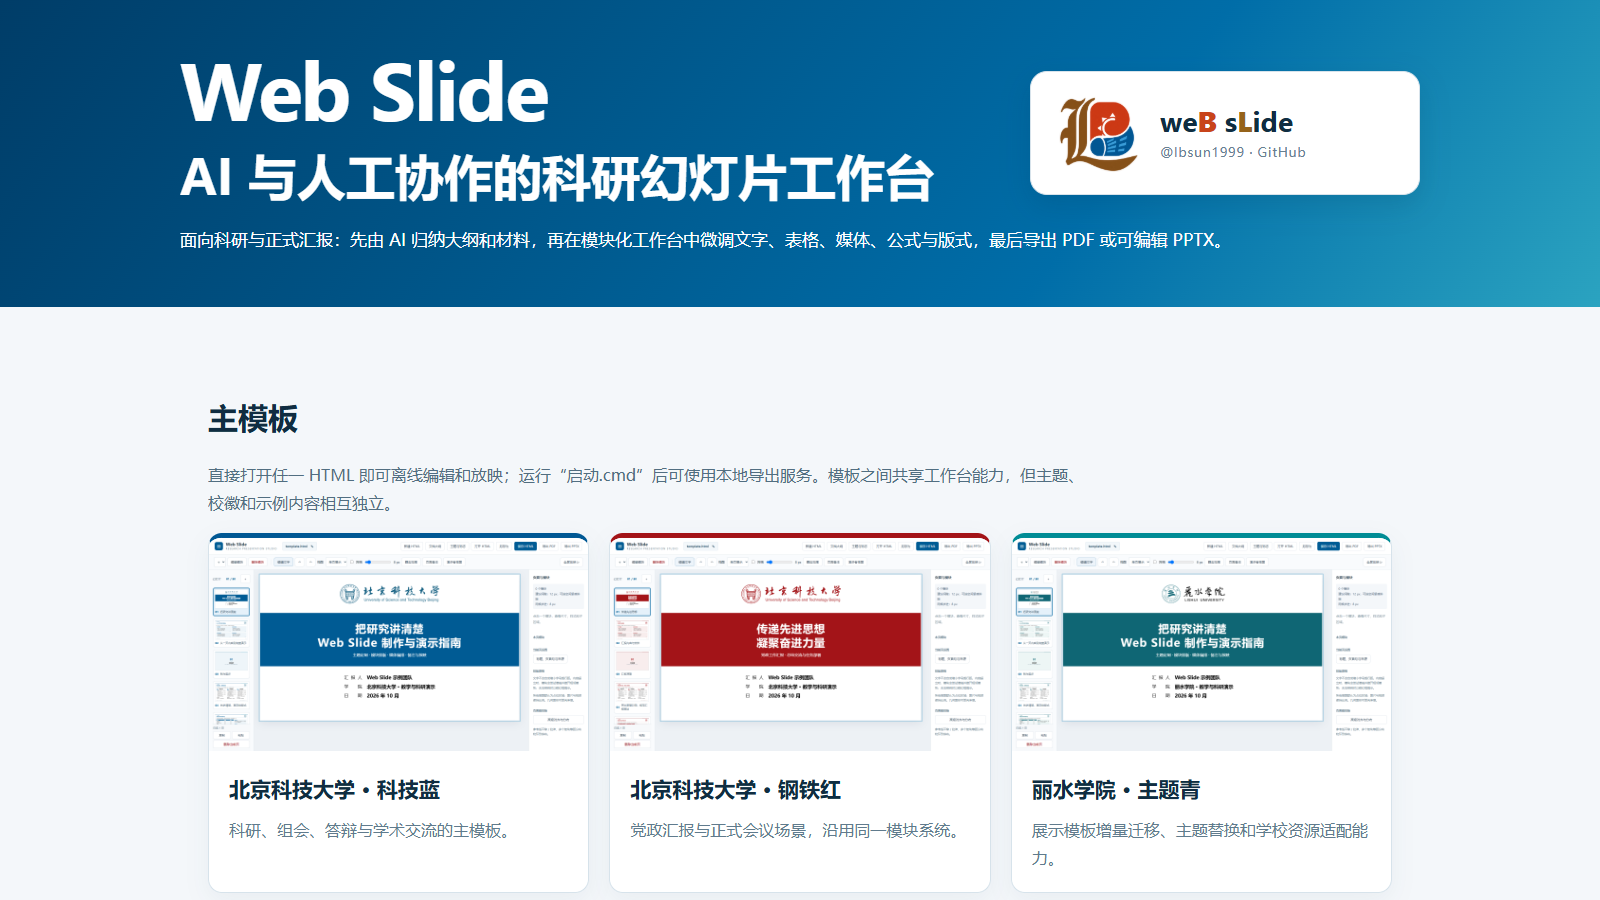
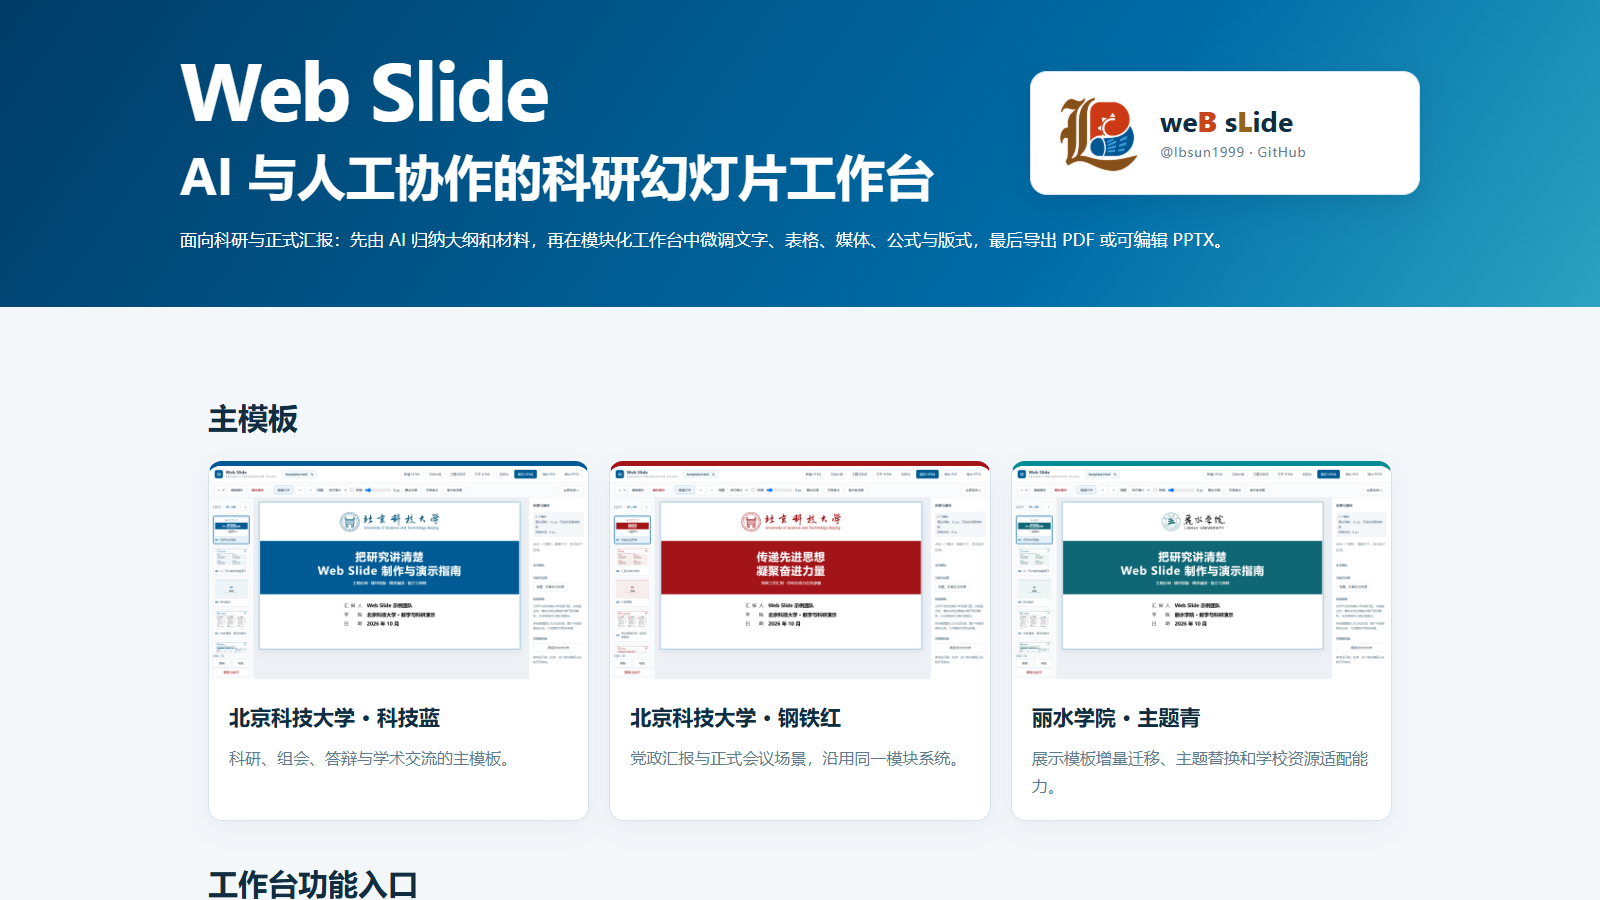
refactor: simplify index navigation copy

Changed region(s): [[0.125, 0.4978, 0.875, 0.9333], [0.125, 0.9644, 0.2812, 1.0]]

diff --git a/index.html b/index.html
@@ -1,11 +1,11 @@
 <!doctype html>
 <html lang="zh-CN"><head><meta charset="UTF-8"><meta name="viewport" content="width=device-width,initial-scale=1"><title>Web Slide · 内容导航</title><link rel="icon" href="assets/brand/exec-ec5f384b-4c6c-488c-a574-ec0918724c93.png" type="image/png"><link rel="stylesheet" href="/styles.css">
 <style id="guide-style">
-:root{--blue:#005894;--orange:#c8441b;--gold:#95631a;--red:#a31418;--ink:#102d41;--line:#d7e3eb;--tint:#eef5f9}*{box-sizing:border-box}body{margin:0;background:#f4f7fa;color:var(--ink);font:16px/1.75 "Microsoft YaHei","PingFang SC",sans-serif}a{color:inherit}.hero{padding:44px max(6vw,28px) 52px;color:#fff;background:linear-gradient(125deg,#003d68,#006da8 68%,#2ba3c0)}.hero-inner{max-width:1240px;margin:auto;display:grid;grid-template-columns:minmax(0,1fr) minmax(330px,390px);align-items:start;gap:clamp(32px,4.5vw,60px)}.hero-copy{min-width:0;padding-top:3px}.hero h1{font:750 clamp(54px,6.2vw,82px)/1 "Segoe UI","Microsoft YaHei",sans-serif;letter-spacing:-2px;margin:0 0 18px}.hero h2{max-width:760px;font-size:clamp(32px,3.8vw,49px);line-height:1.18;margin:0 0 20px;color:#fff}.hero p{max-width:none;font-size:17px;margin:0;white-space:nowrap}.brand-mark{display:grid;grid-template-columns:88px minmax(0,1fr);align-items:center;gap:19px;width:100%;max-width:390px;min-height:124px;margin-top:27px;padding:17px 22px;background:#fff;border:1px solid #d7e3eb;border-radius:17px;box-shadow:0 10px 28px #00283f24;text-decoration:none;transition:transform .2s,box-shadow .2s;justify-self:end}.brand-mark:hover{transform:translateY(-2px);box-shadow:0 14px 34px #00283f32}.brand-mark img{display:block;width:88px;height:88px;object-fit:contain}.brand-mark-copy{display:grid;min-width:0;line-height:1.3}.brand-mark-copy strong{font:750 28px/1.15 "Segoe UI","Microsoft YaHei",sans-serif;color:var(--ink);letter-spacing:.1px;white-space:nowrap}.brand-mark-copy .brand-b{color:var(--orange)}.brand-mark-copy .brand-l{color:var(--gold)}.brand-mark-copy small{margin-top:7px;font-size:13px;color:#668092;letter-spacing:.7px;white-space:nowrap}.wrap{max-width:1240px;margin:auto;padding:48px 28px 80px}.wrap h2{font-size:30px;margin:36px 0 18px}.lead{color:#516e81;max-width:880px}.cards{display:grid;grid-template-columns:repeat(auto-fit,minmax(270px,1fr));gap:20px}.card{display:flex;flex-direction:column;background:#fff;border:1px solid var(--line);border-radius:14px;overflow:hidden;text-decoration:none;box-shadow:0 8px 25px #173c530d;transition:.2s}.card:hover{transform:translateY(-3px);box-shadow:0 14px 35px #173c5320}.card img{display:block;width:100%;aspect-ratio:16/9;object-fit:cover;background:#e6eef3}.card div{padding:20px}.card h3{font-size:21px;margin:0 0 8px}.card p{margin:0;color:#607b8d}.red{border-top:5px solid var(--red)}.blue{border-top:5px solid var(--blue)}.cyan{border-top:5px solid #008c95}.routes{display:grid;grid-template-columns:repeat(auto-fit,minmax(230px,1fr));gap:12px}.routes a{background:#fff;border-left:4px solid var(--blue);padding:15px 18px;text-decoration:none;white-space:nowrap}.note{margin-top:42px;padding:22px 24px;background:#fff;border:1px solid var(--line);border-radius:12px}.note code{background:var(--tint);padding:2px 6px;border-radius:4px}.contact{margin:20px 0 0;text-align:right;color:#607b8d;font-size:14px}.contact a{color:var(--blue);font-weight:700;text-decoration:none}.contact a:hover{text-decoration:underline}@media(max-width:760px){.hero{padding:28px 18px 42px}.hero-inner{grid-template-columns:1fr;gap:28px;text-align:center}.brand-mark{grid-row:2;max-width:300px;justify-self:center;text-align:left}.hero h1{font-size:52px}.hero h2{font-size:32px}.hero p{font-size:17px}.hero p{white-space:normal}.wrap{padding-inline:18px}.routes a{white-space:normal}}
+:root{--blue:#005894;--orange:#c8441b;--gold:#95631a;--red:#a31418;--ink:#102d41;--line:#d7e3eb;--tint:#eef5f9}*{box-sizing:border-box}body{margin:0;background:#f4f7fa;color:var(--ink);font:16px/1.75 "Microsoft YaHei","PingFang SC",sans-serif}a{color:inherit}.hero{padding:44px max(6vw,28px) 52px;color:#fff;background:linear-gradient(125deg,#003d68,#006da8 68%,#2ba3c0)}.hero-inner{max-width:1240px;margin:auto;display:grid;grid-template-columns:minmax(0,1fr) minmax(330px,390px);align-items:start;gap:clamp(32px,4.5vw,60px)}.hero-copy{min-width:0;padding-top:3px}.hero h1{font:750 clamp(54px,6.2vw,82px)/1 "Segoe UI","Microsoft YaHei",sans-serif;letter-spacing:-2px;margin:0 0 18px}.hero h2{max-width:760px;font-size:clamp(32px,3.8vw,49px);line-height:1.18;margin:0 0 20px;color:#fff}.hero p{max-width:none;font-size:17px;margin:0;white-space:nowrap}.brand-mark{display:grid;grid-template-columns:88px minmax(0,1fr);align-items:center;gap:19px;width:100%;max-width:390px;min-height:124px;margin-top:27px;padding:17px 22px;background:#fff;border:1px solid #d7e3eb;border-radius:17px;box-shadow:0 10px 28px #00283f24;text-decoration:none;transition:transform .2s,box-shadow .2s;justify-self:end}.brand-mark:hover{transform:translateY(-2px);box-shadow:0 14px 34px #00283f32}.brand-mark img{display:block;width:88px;height:88px;object-fit:contain}.brand-mark-copy{display:grid;min-width:0;line-height:1.3}.brand-mark-copy strong{font:750 28px/1.15 "Segoe UI","Microsoft YaHei",sans-serif;color:var(--ink);letter-spacing:.1px;white-space:nowrap}.brand-mark-copy .brand-b{color:var(--orange)}.brand-mark-copy .brand-l{color:var(--gold)}.brand-mark-copy small{margin-top:7px;font-size:13px;color:#668092;letter-spacing:.7px;white-space:nowrap}.wrap{max-width:1240px;margin:auto;padding:48px 28px 80px}.wrap h2{font-size:30px;margin:36px 0 18px}.cards{display:grid;grid-template-columns:repeat(auto-fit,minmax(270px,1fr));gap:20px}.card{display:flex;flex-direction:column;background:#fff;border:1px solid var(--line);border-radius:14px;overflow:hidden;text-decoration:none;box-shadow:0 8px 25px #173c530d;transition:.2s}.card:hover{transform:translateY(-3px);box-shadow:0 14px 35px #173c5320}.card img{display:block;width:100%;aspect-ratio:16/9;object-fit:cover;background:#e6eef3}.card div{padding:20px}.card h3{font-size:21px;margin:0 0 8px}.card p{margin:0;color:#607b8d}.red{border-top:5px solid var(--red)}.blue{border-top:5px solid var(--blue)}.cyan{border-top:5px solid #008c95}.routes{display:grid;grid-template-columns:repeat(auto-fit,minmax(230px,1fr));gap:12px}.routes a{background:#fff;border-left:4px solid var(--blue);padding:15px 18px;text-decoration:none;white-space:nowrap}.note{margin-top:42px;padding:22px 24px;background:#fff;border:1px solid var(--line);border-radius:12px}.note code{background:var(--tint);padding:2px 6px;border-radius:4px}.contact{margin:20px 0 0;text-align:right;color:#607b8d;font-size:14px}.contact a{color:var(--blue);font-weight:700;text-decoration:none}.contact a:hover{text-decoration:underline}@media(max-width:760px){.hero{padding:28px 18px 42px}.hero-inner{grid-template-columns:1fr;gap:28px;text-align:center}.brand-mark{grid-row:2;max-width:300px;justify-self:center;text-align:left}.hero h1{font-size:52px}.hero h2{font-size:32px}.hero p{font-size:17px}.hero p{white-space:normal}.wrap{padding-inline:18px}.routes a{white-space:normal}}
 </style></head><body><div id="app"><header class="hero"><div class="hero-inner"><div class="hero-copy"><h1>Web Slide</h1><h2>AI 与人工协作的科研幻灯片工作台</h2><p>面向科研与正式汇报：先由 AI 归纳大纲和材料，再在模块化工作台中微调文字、表格、媒体、公式与版式，最后导出 PDF 或可编辑 PPTX。</p></div><a class="brand-mark" href="https://github.com/lbsun1999" target="_blank" rel="noopener" title="访问 Boysun Liao 的 GitHub 主页"><img src="assets/brand/exec-ec5f384b-4c6c-488c-a574-ec0918724c93.png" alt="LB、太阳与羽毛球构成的 Web Slide 标志"><span class="brand-mark-copy"><strong>we<b class="brand-b">B</b> s<b class="brand-l">L</b>ide</strong><small>@lbsun1999 · GitHub</small></span></a></div></header><main class="wrap">
-<h2>主模板</h2><p class="lead">直接打开任一 HTML 即可离线编辑和放映；运行“启动.cmd”后可使用本地导出服务。模板之间共享工作台能力，但主题、校徽和示例内容相互独立。</p>
+<h2>主模板</h2>
 <section class="cards"><a class="card blue" href="templates/template-1/ustb-blue/template.html"><img src="docs/images/index-ustb-blue.png" alt="北京科技大学科技蓝模板封面工作台"><div><h3>北京科技大学 · 科技蓝</h3><p>科研、组会、答辩与学术交流的主模板。</p></div></a><a class="card red" href="templates/template-1/ustb-red/template.html"><img src="docs/images/index-ustb-red.png" alt="北京科技大学钢铁红模板封面工作台"><div><h3>北京科技大学 · 钢铁红</h3><p>党政汇报与正式会议场景，沿用同一模块系统。</p></div></a><a class="card cyan" href="templates/template-1/lishui-cyan/template.html"><img src="docs/images/index-lishui-cyan.png" alt="丽水学院主题青模板封面工作台"><div><h3>丽水学院 · 主题青</h3><p>展示模板增量迁移、主题替换和学校资源适配能力。</p></div></a></section>
 <h2>工作台功能入口</h2><section class="routes"><a href="docs/site/README.html"><strong>完整使用说明</strong><br>启动、编辑、放映与导出</a><a href="docs/site/index.html"><strong>功能与操作说明</strong><br>图文控件与典型工作流</a><a href="docs/site/SKILL.html"><strong>AI 协作规范</strong><br>大纲、排版与人工审核边界</a><a href="docs/site/templates-README.html"><strong>模板扩展接口</strong><br>增量添加新学校和新主题</a></section>
-<h2>测试、参考与学习</h2><p class="lead">四个入口相互独立：学习操作、查看完整示例、从空白模块模板开始，或快速比较文字块样式。</p><section class="routes"><a href="交互式入门教学.html"><strong>交互式入门教学</strong><br>高亮真实控件，边操作边学习</a><a href="reference/example-project.html"><strong>综合示例</strong><br>常用页面与模块组合</a><a href="reference/blank-template.html"><strong>模块样例速览</strong><br>空白封面、目录与五类模块</a><a href="文本块样式展示.html"><strong>文字块速览</strong><br>一屏比较 A／B／C 组件与编辑项</a></section>
+<h2>测试、参考与学习</h2><section class="routes"><a href="交互式入门教学.html"><strong>交互式入门教学</strong><br>高亮真实控件，边操作边学习</a><a href="reference/example-project.html"><strong>综合示例</strong><br>常用页面与模块组合</a><a href="reference/blank-template.html"><strong>模块样例速览</strong><br>空白封面、目录与五类模块</a><a href="文本块样式展示.html"><strong>文字块速览</strong><br>一屏比较 A／B／C 组件与编辑项</a></section>
 <aside class="note"><strong>本地服务提示：</strong>若需要导出 PDF／PPTX，请运行 <code>启动.cmd</code>，访问 <a href="http://127.0.0.1:4317">127.0.0.1:4317</a>。在服务地址打开时，本导航会自动切换为编辑工作台；直接双击本文件时显示当前内容导航。</aside><p class="contact">联系、合作或申请授权：<a href="mailto:byliao@xs.ustb.edu.cn">byliao@xs.ustb.edu.cn</a></p>
 </main></div><script>if(location.protocol!=='file:'){document.getElementById('guide-style')?.remove();const s=document.createElement('script');s.src='/app.bundle.js';s.id='app-code';document.body.append(s);}</script></body></html>
